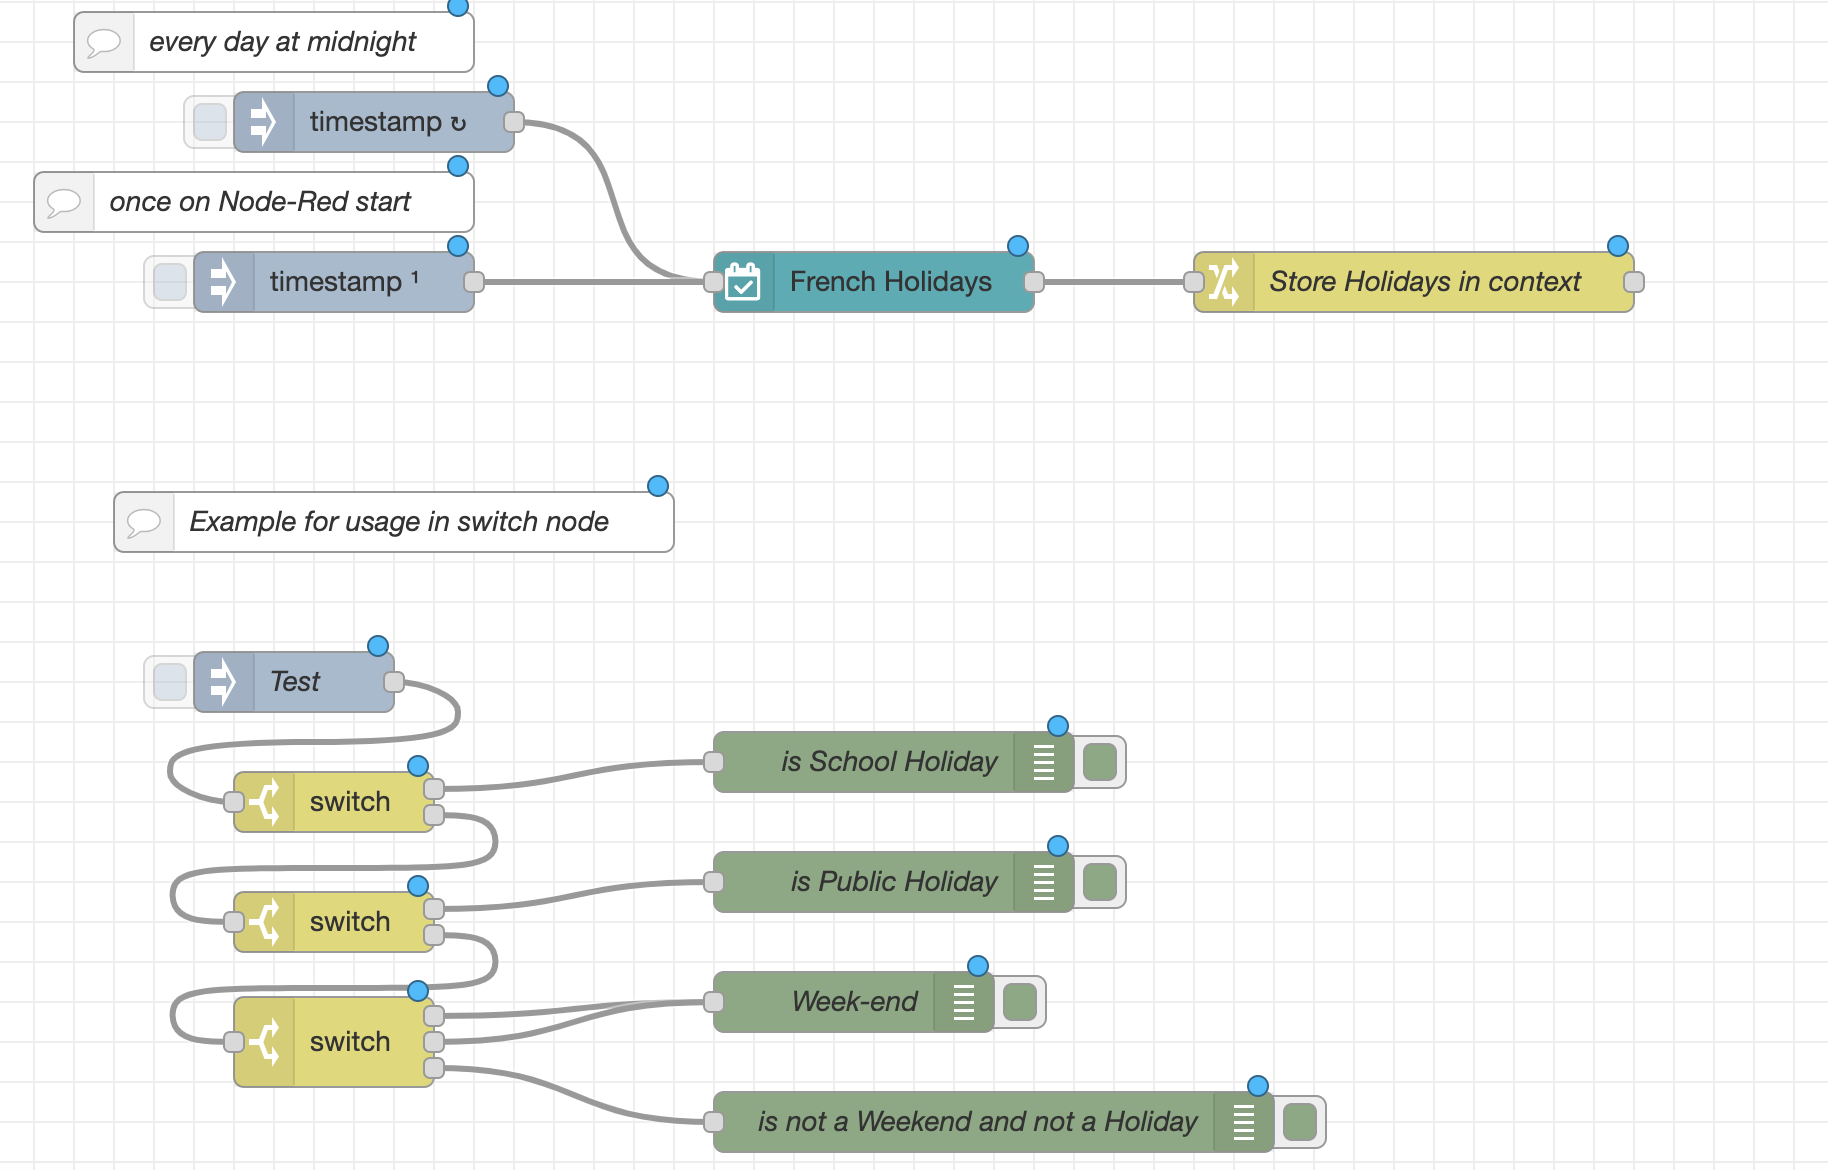
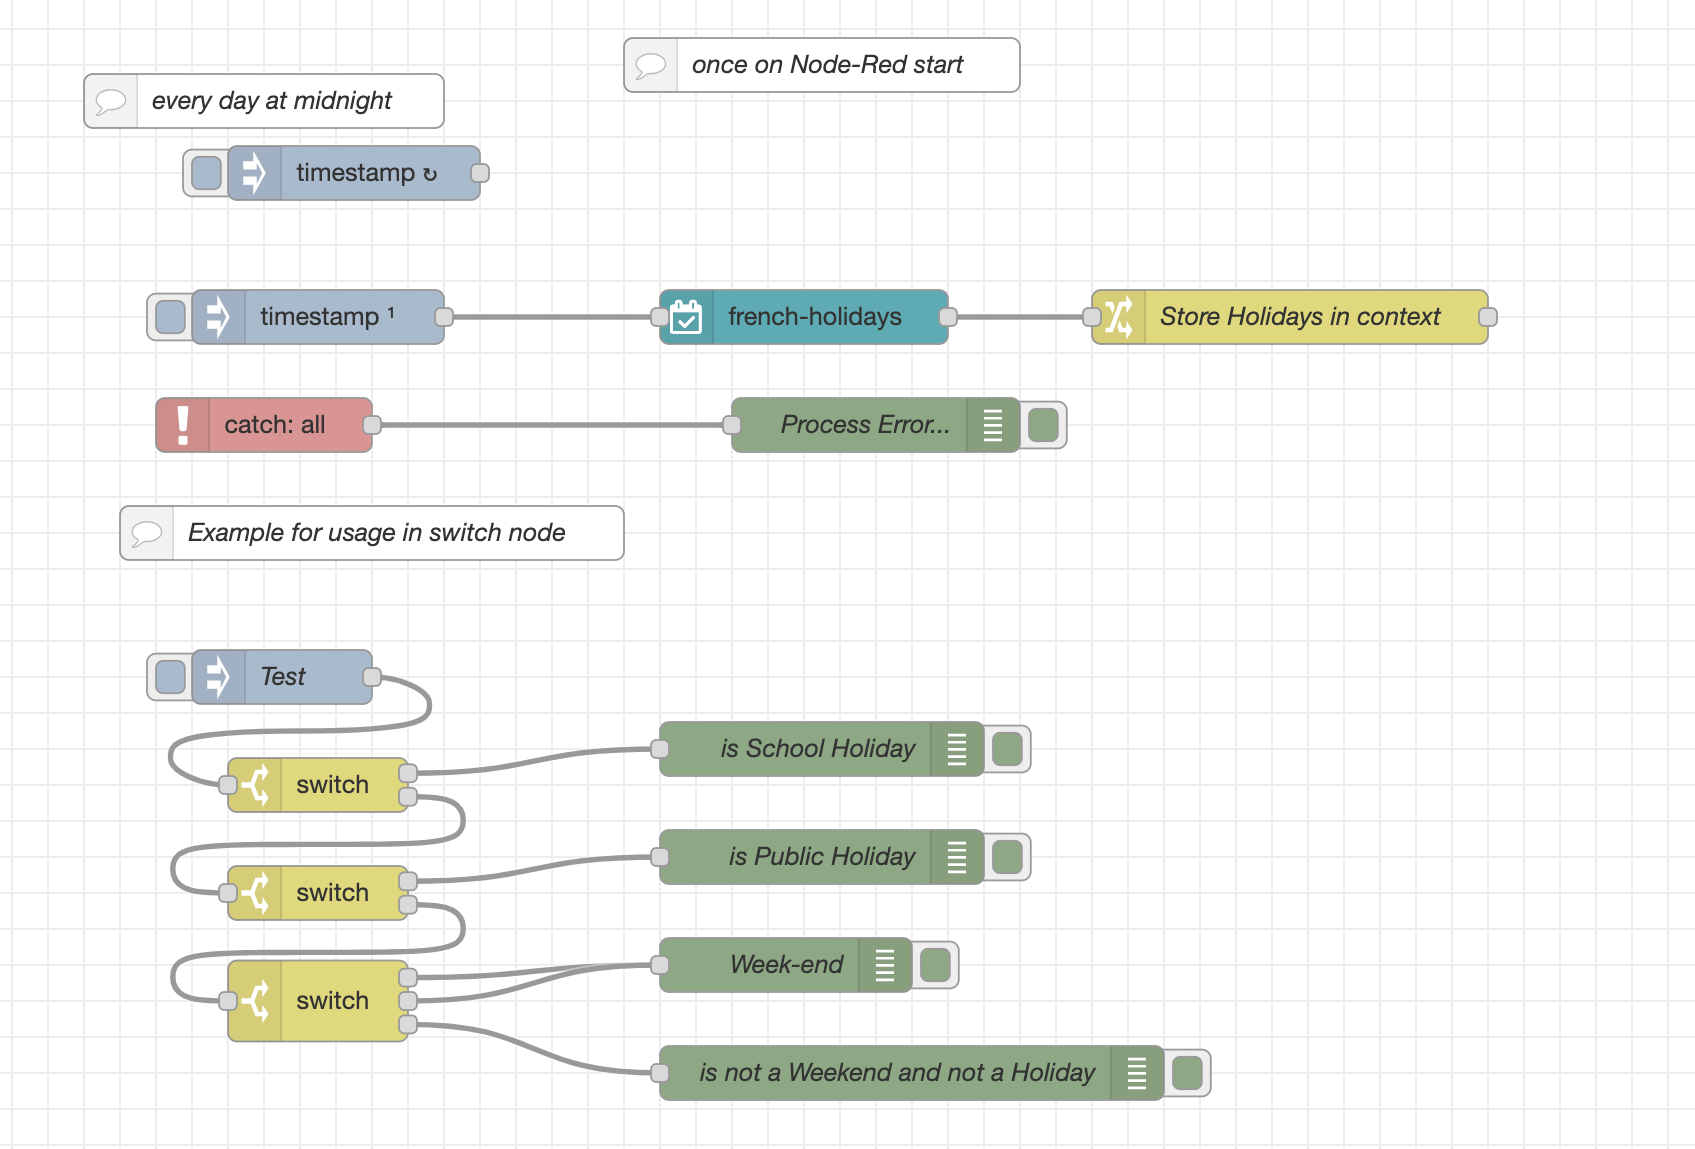
Fix error handling (#4)

diff --git a/french-holidays/french-holidays.js b/french-holidays/french-holidays.js
@@ -5,6 +5,7 @@ module.exports = function (RED) {
       .sort()
       .reduce((res, key) => ((res[key] = obj[key]), res), {})
 
+  var node = {}
   var geo = {}
   geo['Alsace-Moselle'] = 'alsace-moselle'
   geo['Guadeloupe'] = 'guadeloupe'
@@ -27,12 +28,17 @@ module.exports = function (RED) {
     return new Date(d.getTime() - (d.getTimezoneOffset() * 60000)).toISOString().slice(0, -1) + sign + z(off / 60 | 0) + ':' + z(off % 60);
   }
 
+  function displayErrorMsg( msg) {
+    node.status({fill:"red",shape:"ring",text: msg});
+    throw new Error(msg);
+  }
+
   function RetrieveFrenchHoliday (config) {
     //retrieve day number
     RED.nodes.createNode(this, config)
     this.academy = config.academy
     this.geo = config.geo
-    var node = this
+    node = this
 
     node.on('input', function (msg, send, done) {
       var today = new Date()
@@ -50,7 +56,6 @@ module.exports = function (RED) {
         'https://data.education.gouv.fr/api/records/1.0/search/?dataset=fr-en-calendrier-scolaire&q=&rows=100&facet=description&facet=start_date&facet=end_date&facet=zones&facet=annee_scolaire&refine.start_date='+currentYear+'&refine.location='+this.academy
       var entireSchoolHolidaysCalendarApi = 
       'https://data.education.gouv.fr/api/records/1.0/search/?dataset=fr-en-calendrier-scolaire&q=&rows=100&facet=description&facet=start_date&facet=end_date&facet=location&facet=zones&refine.location='+this.academy+'&refine.annee_scolaire='+previousYear+'-'+nextYear
-      'https://data.education.gouv.fr/api/records/1.0/search/?dataset=fr-en-calendrier-scolaire&q=&facet=description&facet=population&facet=start_date&facet=end_date&facet=location&facet=annee_scolaire&refine.start_date='+previousYear+'&refine.location=Martinique'
       var isPublicHoliday = false
       var publicHolidayName = ''
       var nextPublicHolidayName = ''
@@ -71,7 +76,6 @@ module.exports = function (RED) {
       https
         .get(publicHolidayApi, res => {
           let body = ''
-
           res.on('data', chunk => {
             body += chunk
           })
@@ -86,55 +90,59 @@ module.exports = function (RED) {
               const kdates = Object.keys(holidayJson)
               var previousDate = '1970-1-1'
               var nextDate = '1970-1-1'
-              for (let i = 0; i < kdates.length; i++) {
-                currentDate = kdates[i]
-                if (i == kdates.length - 1) {
-                  nextDate = '2100-12-1'
-                } else {
-                  nextDate = kdates[i + 1]
+              if ( kdates) {
+                for (let i = 0; i < kdates.length; i++) {
+                  currentDate = kdates[i]
+                  if (i == kdates.length - 1) {
+                    nextDate = '2100-12-1'
+                  } else {
+                    nextDate = kdates[i + 1]
+                  }
+                  if (currentDate == date) {
+                    isPublicHoliday = true
+                    publicHolidayName = holidayJson[currentDate]
+                    nextPublicHolidayDate = new Date(nextDate).toLocaleDateString('fr')
+                    nextPublicHolidayName = holidayJson[kdates[i + 1]]
+                    break
+                  } else if (currentDate < date && date < nextDate) {
+                    isPublicHoliday = false
+                    publicHolidayName = null
+                    nextPublicHolidayDate = new Date(nextDate).toLocaleDateString('fr')
+                    nextPublicHolidayName = holidayJson[kdates[i + 1]]
+                    break
+                  }
                 }
-                if (currentDate == date) {
-                  isPublicHoliday = true
-                  publicHolidayName = holidayJson[currentDate]
-                  nextPublicHolidayDate = new Date(nextDate).toLocaleDateString('fr')
-                  nextPublicHolidayName = holidayJson[kdates[i + 1]]
-                  break
-                } else if (currentDate < date && date < nextDate) {
-                  isPublicHoliday = false
-                  publicHolidayName = null
-                  nextPublicHolidayDate = new Date(nextDate).toLocaleDateString('fr')
-                  nextPublicHolidayName = holidayJson[kdates[i + 1]]
-                  break
+                //calculate tomorrow
+                var isTomorrowPublicHoliday = false
+                for (let i = 0; i < kdates.length; i++) {
+                  currentDate = kdates[i]
+                  if (i == kdates.length - 1) {
+                    nextDate = '2100-12-1'
+                  } else {
+                    nextDate = kdates[i + 1]
+                  }
+                  if (tomorrow == currentDate) {
+                    isTomorrowPublicHoliday = true
+                    break
+                  } else if (currentDate < tomorrow && tomorrow < nextDate) {
+                    isTomorrowPublicHoliday = false
+                    break
+                  }
                 }
+                var result = {
+                  day: today.getDay(),
+                  isPublicHoliday: isPublicHoliday,
+                  isTomorrowPublicHoliday: isTomorrowPublicHoliday,
+                  publicHolidayName: publicHolidayName,
+                  nextPublicHolidayName: nextPublicHolidayName,
+                  nextPublicHolidayDate: nextPublicHolidayDate,
+                  year: currentYear
+                }
+                resolve(result)
+              }else {
+                displayErrorMsg(  "Public Holiday API returns no record")
               }
-              //calculate tomorrow
-              var isTomorrowPublicHoliday = false
-              for (let i = 0; i < kdates.length; i++) {
-                currentDate = kdates[i]
-                if (i == kdates.length - 1) {
-                  nextDate = '2100-12-1'
-                } else {
-                  nextDate = kdates[i + 1]
-                }
-                if (tomorrow == currentDate) {
-                  isTomorrowPublicHoliday = true
-                  break
-                } else if (currentDate < tomorrow && tomorrow < nextDate) {
-                  isTomorrowPublicHoliday = false
-                  break
-                }
-              }
-              var result = {
-                day: today.getDay(),
-                isPublicHoliday: isPublicHoliday,
-                isTomorrowPublicHoliday: isTomorrowPublicHoliday,
-                publicHolidayName: publicHolidayName,
-                nextPublicHolidayName: nextPublicHolidayName,
-                nextPublicHolidayDate: nextPublicHolidayDate,
-                year: currentYear
-              }
-              resolve(result)
-              
+            
             } catch (error) {
                 if (done) {
                     // Node-RED 1.0 compatible
@@ -143,10 +151,10 @@ module.exports = function (RED) {
                     // Node-RED 0.x compatible
                     node.error(error, msg);
                 }
-                reject(error)
             }
         })
         .on('error', error => {
+            displayErrorMsg(error.message)
             if (done) {
                 // Node-RED 1.0 compatible
                 done(error);
@@ -173,33 +181,35 @@ module.exports = function (RED) {
             var isSchoolHolidays = false
             var isTomorrowSchoolHolidays = false
             var schoolHolidaysName = null
-
-            for (let i = 0; i < records.length; i++) {
-              if (records[i].fields.population != "Enseignants") {
-                if ( Date.parse(records[i].fields.start_date) <= today  && today <= Date.parse(records[i].fields.end_date)){
-                  isSchoolHolidays = true
-                  schoolHolidaysName = records[i].description
-                  break;
+            if ( records ) {
+              for (let i = 0; i < records.length; i++) {
+                if (records[i].fields.population != "Enseignants") {
+                  if ( Date.parse(records[i].fields.start_date) <= today  && today <= Date.parse(records[i].fields.end_date)){
+                    isSchoolHolidays = true
+                    schoolHolidaysName = records[i].description
+                    break;
+                  }
                 }
               }
-            }
-            var tomorrowDate = new Date(today);
-            tomorrowDate.setDate(today.getDate() + 1);
-            for (let i = 0; i < records.length; i++) {
-              if (records[i].fields.population != "Enseignants") {
-                if ( tomorrowDate >= Date.parse(records[i].fields.start_date) && tomorrowDate <= Date.parse(records[i].fields.end_date)){
-                  isTomorrowSchoolHolidays = true
-                  break;
+              var tomorrowDate = new Date(today);
+              tomorrowDate.setDate(today.getDate() + 1);
+              for (let i = 0; i < records.length; i++) {
+                if (records[i].fields.population != "Enseignants") {
+                  if ( tomorrowDate >= Date.parse(records[i].fields.start_date) && tomorrowDate <= Date.parse(records[i].fields.end_date)){
+                    isTomorrowSchoolHolidays = true
+                    break;
+                  }
                 }
               }
+              var result = {
+                isSchoolHolidays: isSchoolHolidays,
+                isTomorrowSchoolHolidays: isTomorrowSchoolHolidays,
+                schoolHolidaysName: schoolHolidaysName,
+              }
+              resolve(result)
+            }else {
+              displayErrorMsg("School Holiday API is returning no records")     
             }
-            var result = {
-              isSchoolHolidays: isSchoolHolidays,
-              isTomorrowSchoolHolidays: isTomorrowSchoolHolidays,
-              schoolHolidaysName: schoolHolidaysName,
-            }
-            resolve(result)
-            
           } catch (error) {
               if (done) {
                   // Node-RED 1.0 compatible
@@ -208,10 +218,10 @@ module.exports = function (RED) {
                   // Node-RED 0.x compatible
                   node.error(error, msg);
               }
-              reject(error)
           }
       })
       .on('error', error => {
+          displayErrorMsg(error.message)     
           if (done) {
               // Node-RED 1.0 compatible
               done(error);
@@ -242,33 +252,36 @@ promiseEntireSchoolHolidaysCalendar = new Promise(function(resolve, reject) {
           var nextHolidayName = null
           var startDate = null
           var endDate = null
-          for (let i = 0; i < records.length; i++) {
-            var timeDifference = Date.parse(records[i].fields.start_date) - today.getTime();
-            var _daysDifference = timeDifference / (1000 * 3600 * 24);
-            if ( _daysDifference <= 0 ) {
-              //case when the holidays are already passed or start today
+          if (records) {
+            for (let i = 0; i < records.length; i++) {
+              var timeDifference = Date.parse(records[i].fields.start_date) - today.getTime();
+              var _daysDifference = timeDifference / (1000 * 3600 * 24);
+              if ( _daysDifference <= 0 ) {
+                //case when the holidays are already passed or start today
 
-            }else {
-                if (daysDifference == -1 || _daysDifference<daysDifference) {
-                  nextHolidayName = records[i].fields.description
-                  daysDifference = Math.round(_daysDifference)
-                  startDate = new Date(records[i].fields.start_date).toLocaleDateString('fr')
-                  endDate = new Date(records[i].fields.end_date).toLocaleDateString('fr')
-                }
+              }else {
+                  if (daysDifference == -1 || _daysDifference<daysDifference) {
+                    nextHolidayName = records[i].fields.description
+                    daysDifference = Math.round(_daysDifference)
+                    startDate = new Date(records[i].fields.start_date).toLocaleDateString('fr')
+                    endDate = new Date(records[i].fields.end_date).toLocaleDateString('fr')
+                  }
+              }
             }
+            
+            console.log("daysDifference: "+daysDifference)
+                  console.log("holiday  : "+nextHolidayName)
+            var result = {
+              nextHolidayName: nextHolidayName,
+              daysDifference: daysDifference,
+              schoolHolidaysName: schoolHolidaysName,
+              startDate: startDate,
+              endDate: endDate,
+            }
+            resolve(result)
+          }else {
+            displayErrorMsg("School Holiday API for the whole year is returning no records")     
           }
-           
-          console.log("daysDifference: "+daysDifference)
-                console.log("holiday  : "+nextHolidayName)
-          var result = {
-            nextHolidayName: nextHolidayName,
-            daysDifference: daysDifference,
-            schoolHolidaysName: schoolHolidaysName,
-            startDate: startDate,
-            endDate: endDate,
-          }
-          resolve(result)
-          
         } catch (error) {
             if (done) {
                 // Node-RED 1.0 compatible
@@ -277,10 +290,10 @@ promiseEntireSchoolHolidaysCalendar = new Promise(function(resolve, reject) {
                 // Node-RED 0.x compatible
                 node.error(error, msg);
             }
-            reject(error)
         }
     })
     .on('error', error => {
+        displayErrorMsg(error.message)
         if (done) {
             // Node-RED 1.0 compatible
             done(error);

diff --git a/README.md b/README.md
@@ -62,8 +62,12 @@ Data are returned in __msg.payload__
 ![Full workflow](https://github.com/tataille/node-red-french-holidays/blob/main/assets/example.png)
 
 ```json
-[{"id":"f6f2187d.f17ca8","type":"tab","label":"Example Frenh Holidays","disabled":false,"info":""},{"id":"ee7966d41a4eb93a","type":"inject","z":"f6f2187d.f17ca8","name":"","props":[{"p":"payload"},{"p":"topic","vt":"str"}],"repeat":"","crontab":"05 00 * * *","once":false,"onceDelay":0.1,"topic":"","payload":"","payloadType":"date","x":210,"y":120,"wires":[["6cde5e23f714597e"]]},{"id":"6cde5e23f714597e","type":"french-holidays","z":"f6f2187d.f17ca8","name":"French Holidays","academy":"Saint Pierre et Miquelon","geo":"La Réunion","x":460,"y":200,"wires":[["f02f34e5c19dc9ad"]]},{"id":"e4912846.3a1ca8","type":"inject","z":"f6f2187d.f17ca8","name":"","props":[{"p":"payload"},{"p":"topic","vt":"str"}],"repeat":"","crontab":"","once":true,"onceDelay":"1","topic":"","payload":"","payloadType":"date","x":190,"y":200,"wires":[["6cde5e23f714597e"]]},{"id":"d2fe809f.3c90d","type":"switch","z":"f6f2187d.f17ca8","name":"","property":"day-info.isSchoolHoliday","propertyType":"global","rules":[{"t":"true"},{"t":"else"}],"checkall":"true","repair":false,"outputs":2,"x":190,"y":460,"wires":[["c73a89b5.6630f8"],["45f8baa2ab85b321"]]},{"id":"26326493.2e010c","type":"inject","z":"f6f2187d.f17ca8","name":"Test","props":[],"repeat":"","crontab":"","once":false,"onceDelay":0.1,"topic":"","x":170,"y":400,"wires":[["d2fe809f.3c90d"]]},{"id":"c73a89b5.6630f8","type":"debug","z":"f6f2187d.f17ca8","name":"is School Holiday","active":true,"tosidebar":true,"console":false,"tostatus":false,"complete":"payload","targetType":"msg","statusVal":"","statusType":"auto","x":470,"y":440,"wires":[]},{"id":"e245c8da.585928","type":"debug","z":"f6f2187d.f17ca8","name":"is not a Weekend and not a Holiday","active":true,"tosidebar":true,"console":false,"tostatus":false,"complete":"payload","x":520,"y":620,"wires":[]},{"id":"e427d079.51212","type":"comment","z":"f6f2187d.f17ca8","name":"Example for usage in switch node","info":"","x":220,"y":320,"wires":[]},{"id":"16d53221440bd2e4","type":"comment","z":"f6f2187d.f17ca8","name":"every day at midnight","info":"","x":160,"y":80,"wires":[]},{"id":"c5739eb5333cc2d1","type":"comment","z":"f6f2187d.f17ca8","name":"once on Node-Red start","info":"","x":150,"y":160,"wires":[]},{"id":"f02f34e5c19dc9ad","type":"change","z":"f6f2187d.f17ca8","name":"Store Holidays in context ","rules":[{"t":"set","p":"day-info","pt":"global","to":"payload","tot":"msg"}],"action":"","property":"","from":"","to":"","reg":false,"x":730,"y":200,"wires":[[]]},{"id":"45f8baa2ab85b321","type":"switch","z":"f6f2187d.f17ca8","name":"","property":"day-info.isPublicHoliday","propertyType":"global","rules":[{"t":"true"},{"t":"else"}],"checkall":"true","repair":false,"outputs":2,"x":190,"y":520,"wires":[["85d147a3f1f5220f"],["c54de3c014daa901"]]},{"id":"85d147a3f1f5220f","type":"debug","z":"f6f2187d.f17ca8","name":"is Public Holiday","active":true,"tosidebar":true,"console":false,"tostatus":false,"complete":"payload","targetType":"msg","statusVal":"","statusType":"auto","x":470,"y":500,"wires":[]},{"id":"c54de3c014daa901","type":"switch","z":"f6f2187d.f17ca8","name":"","property":"day-info.day","propertyType":"global","rules":[{"t":"eq","v":"0","vt":"str"},{"t":"eq","v":"6","vt":"str"},{"t":"else"}],"checkall":"true","repair":false,"outputs":3,"x":190,"y":580,"wires":[["54181726d58eb31b"],["54181726d58eb31b"],["e245c8da.585928"]]},{"id":"54181726d58eb31b","type":"debug","z":"f6f2187d.f17ca8","name":"Week-end","active":true,"tosidebar":true,"console":false,"tostatus":false,"complete":"payload","targetType":"msg","statusVal":"","statusType":"auto","x":450,"y":560,"wires":[]}]
+[{"id":"f6f2187d.f17ca8","type":"tab","label":"Flow 1","disabled":false,"info":""},{"id":"ee7966d41a4eb93a","type":"inject","z":"f6f2187d.f17ca8","name":"","props":[{"p":"payload"},{"p":"topic","vt":"str"}],"repeat":"","crontab":"05 00 * * *","once":false,"onceDelay":0.1,"topic":"","payload":"","payloadType":"date","x":210,"y":120,"wires":[[]]},{"id":"e4912846.3a1ca8","type":"inject","z":"f6f2187d.f17ca8","name":"","props":[{"p":"payload"},{"p":"topic","vt":"str"}],"repeat":"","crontab":"","once":true,"onceDelay":"1","topic":"","payload":"","payloadType":"date","x":190,"y":200,"wires":[["5aa20fda11a48ef0"]]},{"id":"d2fe809f.3c90d","type":"switch","z":"f6f2187d.f17ca8","name":"","property":"day-info.isSchoolHoliday","propertyType":"global","rules":[{"t":"true"},{"t":"else"}],"checkall":"true","repair":false,"outputs":2,"x":190,"y":460,"wires":[["c73a89b5.6630f8"],["45f8baa2ab85b321"]]},{"id":"26326493.2e010c","type":"inject","z":"f6f2187d.f17ca8","name":"Test","props":[],"repeat":"","crontab":"","once":false,"onceDelay":0.1,"topic":"","x":170,"y":400,"wires":[["d2fe809f.3c90d"]]},{"id":"c73a89b5.6630f8","type":"debug","z":"f6f2187d.f17ca8","name":"is School Holiday","active":true,"tosidebar":true,"console":false,"tostatus":false,"complete":"payload","targetType":"msg","statusVal":"","statusType":"auto","x":470,"y":440,"wires":[]},{"id":"e245c8da.585928","type":"debug","z":"f6f2187d.f17ca8","name":"is not a Weekend and not a Holiday","active":true,"tosidebar":true,"console":false,"tostatus":false,"complete":"payload","x":520,"y":620,"wires":[]},{"id":"e427d079.51212","type":"comment","z":"f6f2187d.f17ca8","name":"Example for usage in switch node","info":"","x":220,"y":320,"wires":[]},{"id":"16d53221440bd2e4","type":"comment","z":"f6f2187d.f17ca8","name":"every day at midnight","info":"","x":160,"y":80,"wires":[]},{"id":"c5739eb5333cc2d1","type":"comment","z":"f6f2187d.f17ca8","name":"once on Node-Red start","info":"","x":470,"y":60,"wires":[]},{"id":"f02f34e5c19dc9ad","type":"change","z":"f6f2187d.f17ca8","name":"Store Holidays in context ","rules":[{"t":"set","p":"day-info","pt":"global","to":"payload","tot":"msg"}],"action":"","property":"","from":"","to":"","reg":false,"x":730,"y":200,"wires":[[]]},{"id":"45f8baa2ab85b321","type":"switch","z":"f6f2187d.f17ca8","name":"","property":"day-info.isPublicHoliday","propertyType":"global","rules":[{"t":"true"},{"t":"else"}],"checkall":"true","repair":false,"outputs":2,"x":190,"y":520,"wires":[["85d147a3f1f5220f"],["c54de3c014daa901"]]},{"id":"85d147a3f1f5220f","type":"debug","z":"f6f2187d.f17ca8","name":"is Public Holiday","active":true,"tosidebar":true,"console":false,"tostatus":false,"complete":"payload","targetType":"msg","statusVal":"","statusType":"auto","x":470,"y":500,"wires":[]},{"id":"c54de3c014daa901","type":"switch","z":"f6f2187d.f17ca8","name":"","property":"day-info.day","propertyType":"global","rules":[{"t":"eq","v":"0","vt":"str"},{"t":"eq","v":"6","vt":"str"},{"t":"else"}],"checkall":"true","repair":false,"outputs":3,"x":190,"y":580,"wires":[["54181726d58eb31b"],["54181726d58eb31b"],["e245c8da.585928"]]},{"id":"54181726d58eb31b","type":"debug","z":"f6f2187d.f17ca8","name":"Week-end","active":true,"tosidebar":true,"console":false,"tostatus":false,"complete":"payload","targetType":"msg","statusVal":"","statusType":"auto","x":450,"y":560,"wires":[]},{"id":"5aa20fda11a48ef0","type":"french-holidays","z":"f6f2187d.f17ca8","name":"","academy":"Versailles","geo":"Métropole","x":460,"y":200,"wires":[["f02f34e5c19dc9ad"]]},{"id":"6dbfab22c2469252","type":"catch","z":"f6f2187d.f17ca8","name":"","scope":null,"uncaught":false,"x":160,"y":260,"wires":[["1bcba6dbae45639b"]]},{"id":"1bcba6dbae45639b","type":"debug","z":"f6f2187d.f17ca8","name":"Process Error...","active":true,"tosidebar":true,"console":false,"tostatus":false,"complete":"true","targetType":"full","statusVal":"","statusType":"auto","x":500,"y":260,"wires":[]}]
 ```
+
+### Error handling
+
+Due to the fact the plugin interact with external APIs provided by French government, external errors (missing records, connection errors..) are thrown to the node-red core. To handle the exceptions and program a new query, a __catch__ block must be added to the __node-red__ flow. Error details can be found in the exception message payload.
 
 ## Development
 
